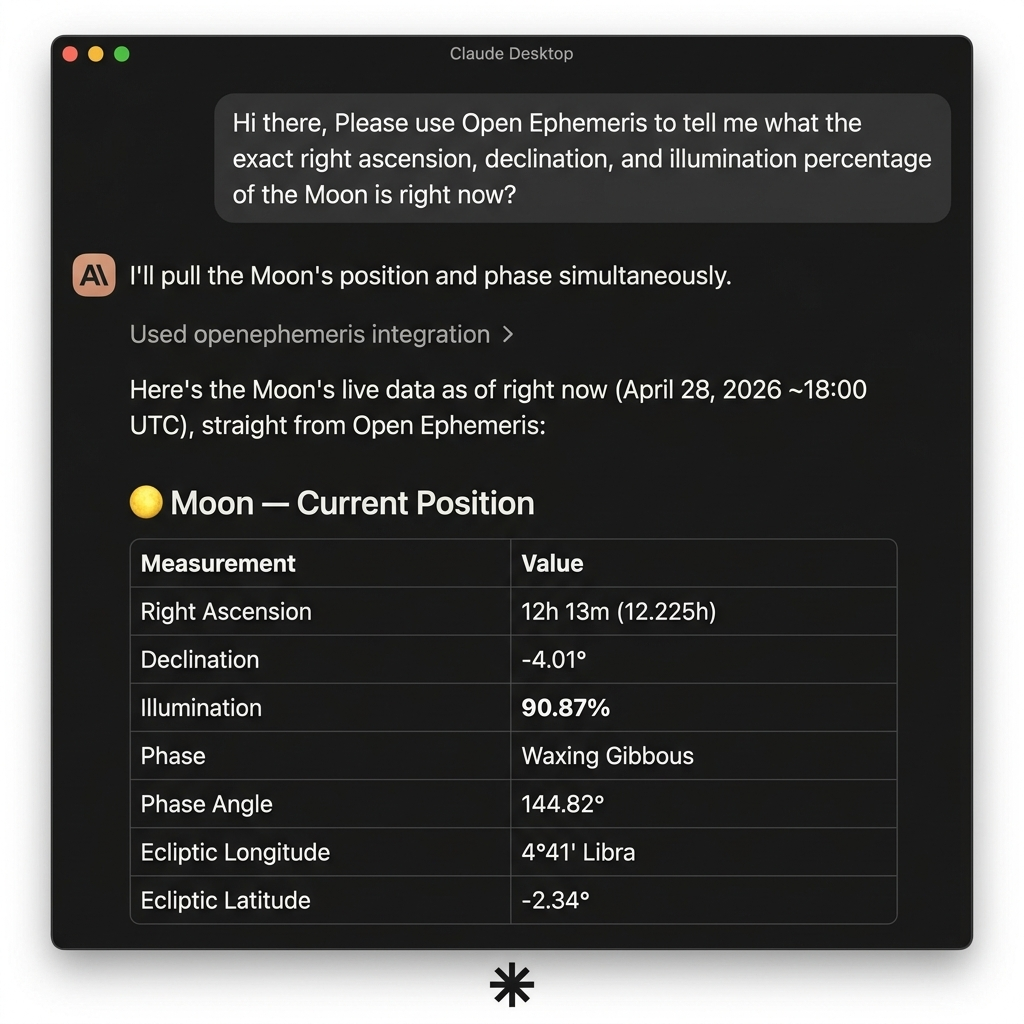
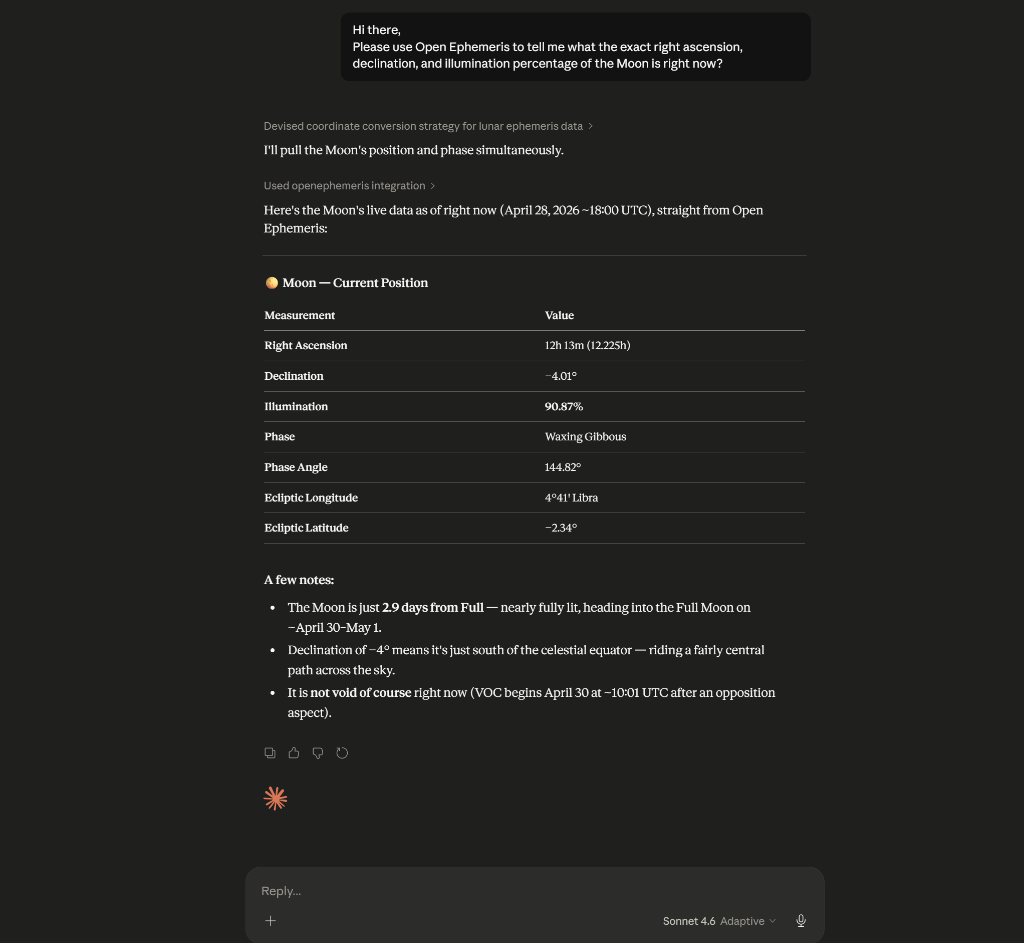
docs: replace generated screenshot with real Claude Desktop captures

Changed region(s): [[0.0, 0.0, 1.0, 1.0]]

diff --git a/README.md b/README.md
@@ -18,9 +18,11 @@ Standard LLMs (Claude, GPT-4, Gemini) are incredible at text, but they are inher
 
 By connecting the OpenEphemeris MCP to your AI agent, you offload the complex calculations to a deterministic, high-precision API powered by NASA JPL data. Your agent stops guessing and starts fetching millisecond-accurate placements.
 
+![Claude Desktop — OpenEphemeris tool call in progress](./assets/claude-demo-thinking.png)
+
 ![Claude Desktop — live Moon data via OpenEphemeris MCP](./assets/claude-demo-moon.png)
 
-*Claude calling the OpenEphemeris MCP to return exact lunar RA, declination, phase, and illumination in real-time.*
+*Claude calling the OpenEphemeris MCP tool in real-time to return exact lunar RA, declination, phase, and illumination — live from the NASA JPL ephemeris.*
 
 ---
 
